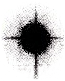
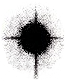
Add samples

diff --git a/frigid_stars.py b/frigid_stars.py
@@ -1,7 +1,7 @@
 import argparse
 import glob
 from pathlib import Path
-from PIL import Image, ImageOps
+from PIL import Image, ImageOps, ImageFilter
 import random
 
 
@@ -58,6 +58,7 @@ def main():
     parser.add_argument('-s', '--samples', type=str, help='Path of samples', default='samples')
     parser.add_argument('-x', '--width', type=int, help='Width of generated output', default=1920)
     parser.add_argument('-y', '--height', type=int, help='Height of generated output', default=1080)
+    parser.add_argument('--smooth', action='store_true', help='Smooth the output iamge')
     args = parser.parse_args()
 
     samples_dir = Path(args.samples)
@@ -74,6 +75,9 @@ def main():
 
     if args.invert:
         output = ImageOps.invert(output)
+
+    if args.smooth:
+        output = output.filter(ImageFilter.SMOOTH)
 
     output.save(args.output)
 
